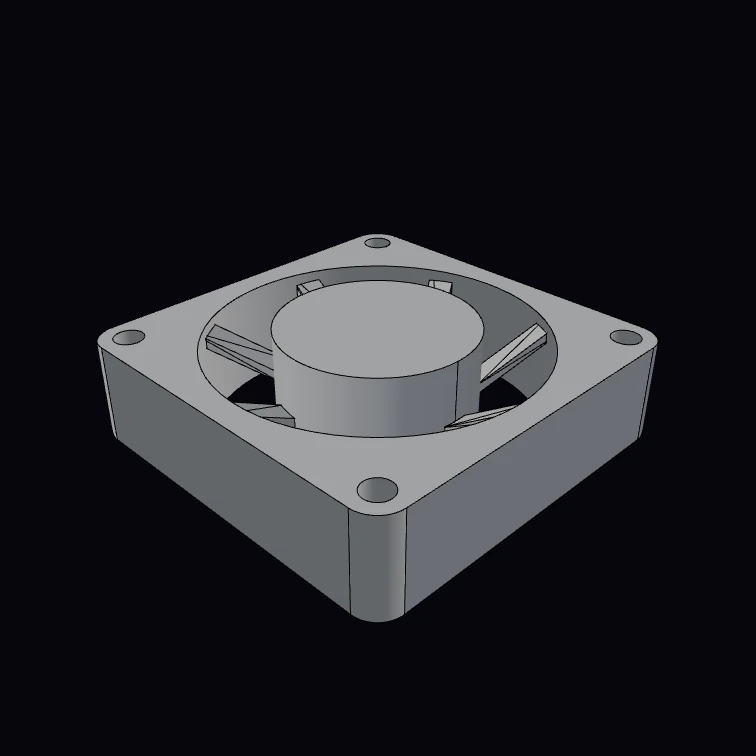
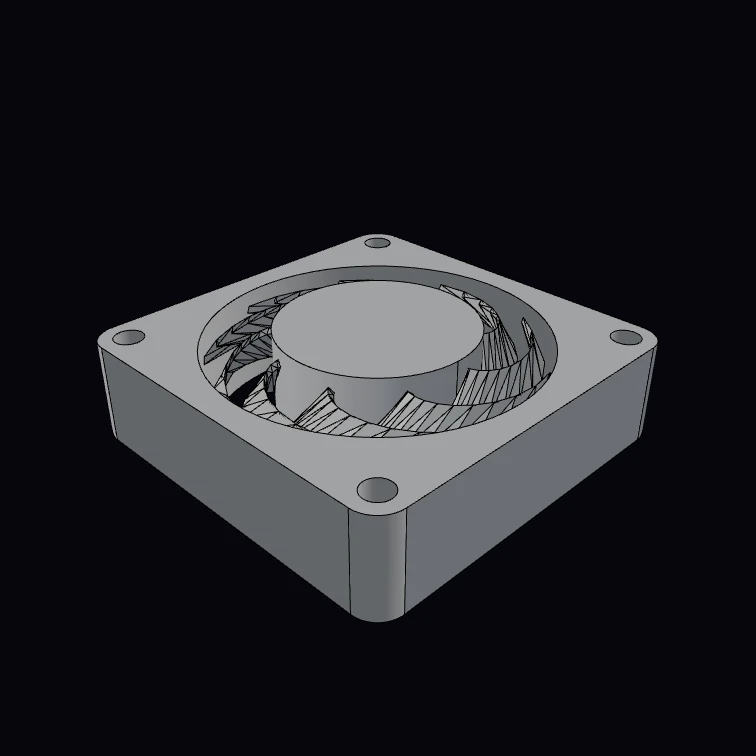
fix(playground): curved, pitched impeller blades for the axial fan example (#1103)

Pull request: fix(playground): curved, pitched impeller blades for the axial fan example
## Summary

Reworks the **axial cooling fan** example's impeller blades. The old blades were
flat radial paddles — sparse, un-angled, and nothing like a real fan rotor.

## What changed

- Each blade is now an **organically curved, pitched vane**: a rectangular
  cross-section is marched along a curling tangential path from hub to rim,
  twisting the pitch from steep at the root to shallow at the tip. A chain of
  per-segment convex hulls is fused so the blade scoops concavely the way a real
  impeller does — something a single straight hull can't express.
- Blade tips sit ~1 mm **inside** the air bore (was clipping through the frame
  wall before); 9 blades overlap into a solid-looking rotor.
- Thumbnail regenerated (`npm run thumbs`).

## Verification
- 174 tests pass (example eval+mesh regression + thumbnail-coverage gate).
- Playground typecheck clean; pre-push gate (`test:full` + `knip`) passed.

Before/after is visible in the regenerated `axial-fan.webp` thumbnail.

Changed region(s): [[0.2738, 0.3651, 0.7302, 0.578]]

diff --git a/apps/playground/src/lib/examples/mechanical.ts b/apps/playground/src/lib/examples/mechanical.ts
@@ -56,7 +56,7 @@ function axialFan({
   hub = 29, // central hub diameter (mm)
   hubHeight = 2, // hub protrusion above the top face (mm)
   screwDia = 4.3, // mounting-screw clearance hole diameter (mm)
-  blades = 7, // number of impeller blades
+  blades = 9, // number of impeller blades
 } = {}) {
   const cornerR = (width - bore) / 2; // 4.25 mm for the 57x15 default
 
@@ -85,31 +85,61 @@ function axialFan({
   // Hub: solid cylinder protruding above the top face.
   const hubBody = cylinder(hub / 2, depth + hubHeight, { at: [0, 0, 0] });
 
-  // Each blade is the convex hull of a low radial edge at the hub and a
-  // higher, tangentially-swept edge at the rim — the offset gives the pitch.
-  const rInner = hub / 2 - 0.5;  // bite into the hub for a clean fuse
-  const rOuter = width / 2 - 2;  // bite into the frame so the rotor fuses to it
-  const halfChord = 2.0;         // half blade chord at each edge
-  const thick = 1.6;             // blade thickness
-  const zLo = depth - 9;         // root height
-  const zHi = depth - 2;         // tip height (pitched up)
-  const rake = 4;                // tangential tip offset → swept curve
+  // Each blade is an organically curved, pitched vane. We march a rectangular
+  // cross-section along a curling path from hub to rim — the path sweeps
+  // tangentially (so the blade scoops like a real impeller) and the section
+  // twists from a steep pitch at the root to a shallow one at the tip. Hulling
+  // each consecutive pair of sections and fusing the chain yields a smooth,
+  // concave-curved blade a single straight hull can't express.
+  const rInner = hub / 2 - 1; // root bites into the hub for a clean fuse
+  const rOuter = width / 2 - 5; // tip stays 1 mm inside the air bore radius (width/2 - 4)
+  const chord = 9; // blade chord (tangential width)
+  const thick = 1.1; // blade material thickness
+  const zBase = depth - 4; // sits just below the top face
+  const sweep = 1.05; // total tangential curl from root to tip (radians)
+  const pitch0 = 0.95; // steep pitch at the root
+  const pitch1 = 0.35; // shallower pitch at the tip
+  const steps = 10; // sections along the blade — more = smoother
 
-  const bladePts = [
-    // inner (hub) edge — lower
-    [rInner, -halfChord, zLo],
-    [rInner, halfChord, zLo],
-    [rInner, -halfChord, zLo + thick],
-    [rInner, halfChord, zLo + thick],
-    // outer (rim) edge — higher and swept tangentially
-    [rOuter, rake - halfChord, zHi],
-    [rOuter, rake + halfChord, zHi],
-    [rOuter, rake - halfChord, zHi + thick],
-    [rOuter, rake + halfChord, zHi + thick],
-  ];
+  // One cross-section (4 corners) at path parameter t in [0, 1].
+  const section = (t: number) => {
+    const rr = rInner + (rOuter - rInner) * t;
+    const ang = sweep * t * t; // accelerating curl reads as an organic scoop
+    const pitch = pitch0 + (pitch1 - pitch0) * t;
+    const cos = Math.cos(ang);
+    const sin = Math.sin(ang);
+    const cx = rr * cos;
+    const cy = rr * sin;
+    const tx = -sin; // tangential direction at this radius
+    const ty = cos;
+    const ch = chord / 2;
+    const th = thick / 2;
+    const cHx = Math.cos(pitch) * tx * ch;
+    const cHy = Math.cos(pitch) * ty * ch;
+    const cHz = Math.sin(pitch) * ch;
+    const nHx = -Math.sin(pitch) * tx * th;
+    const nHy = -Math.sin(pitch) * ty * th;
+    const nHz = Math.cos(pitch) * th;
+    return [
+      [cx - cHx - nHx, cy - cHy - nHy, zBase - cHz - nHz],
+      [cx + cHx - nHx, cy + cHy - nHy, zBase + cHz - nHz],
+      [cx + cHx + nHx, cy + cHy + nHy, zBase + cHz + nHz],
+      [cx - cHx + nHx, cy - cHy + nHy, zBase - cHz + nHz],
+    ];
+  };
 
-  // A fresh hull per blade — rotate consumes the handle it's given.
-  const makeBlade = () => unwrap(convexHull(bladePts));
+  // One blade = a fused chain of per-segment hulls; place a ring of them
+  // (fresh blade per slot — rotate consumes the handle it's given).
+  const makeBlade = () => {
+    const segs = [];
+    let prev = section(0);
+    for (let stp = 1; stp <= steps; stp++) {
+      const cur = section(stp / steps);
+      segs.push(unwrap(convexHull([...prev, ...cur])));
+      prev = cur;
+    }
+    return unwrap(fuseAll(segs));
+  };
   const bladeRing = [];
   for (let i = 0; i < blades; i++) {
     bladeRing.push(rotate(makeBlade(), (360 * i) / blades, { axis: [0, 0, 1] }));